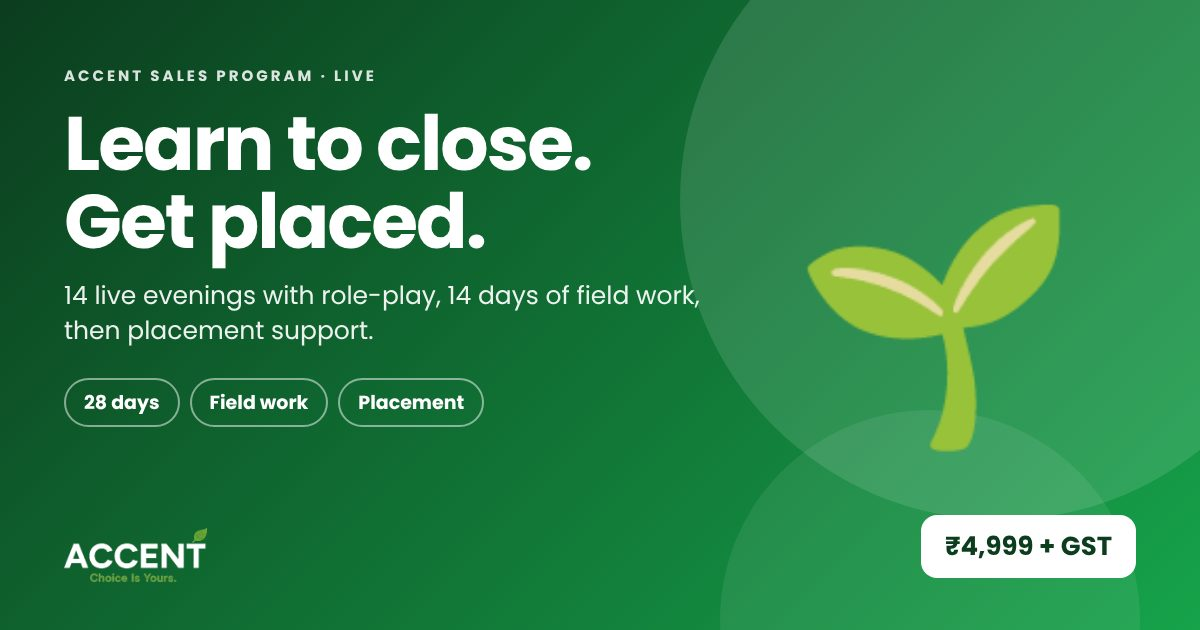
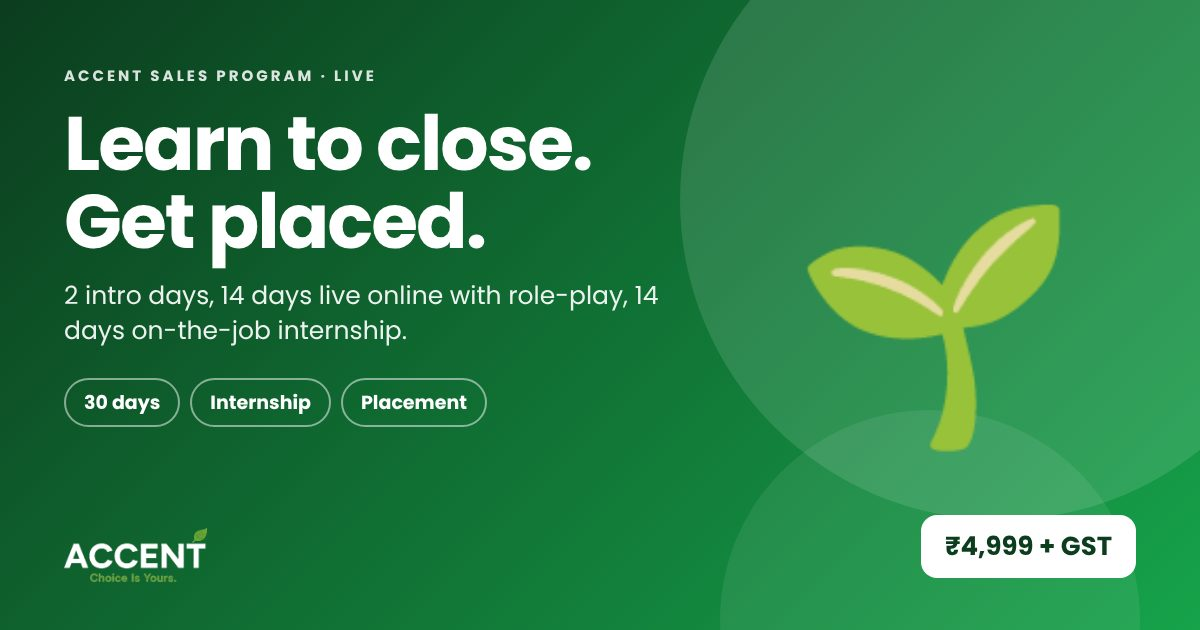
Market case studies, Instagram @accent_ai, 30-day online beta program
Claude-Session: https://claude.ai/code/session_01Ut7WEFV6cq7orZYXQY1Rf6

Changed region(s): [[0.0308, 0.4524, 0.5858, 0.5429], [0.1542, 0.6032, 0.4317, 0.6635], [0.0617, 0.6333, 0.1233, 0.6635]]

diff --git a/site/index.html b/site/index.html
@@ -19,7 +19,7 @@
 {"@type":"Question","name":"How much do Accent short courses cost?","acceptedAnswer":{"@type":"Answer","text":"Each short course is ₹149. The first lessons of every course are free to watch in the Accent app."}},
 {"@type":"Question","name":"Which language are the courses in?","acceptedAnswer":{"@type":"Answer","text":"Sales Basics, AI Tools and Interview English are explained in Malayalam, with English terms. Hindi Express teaches spoken Hindi with English captions."}},
 {"@type":"Question","name":"Do I get a certificate?","acceptedAnswer":{"@type":"Answer","text":"Yes. Pass the final quiz with 7 out of 10 and download your Accent certificate in the app."}},
-{"@type":"Question","name":"Does Accent help with placement?","acceptedAnswer":{"@type":"Answer","text":"Yes. Learners can build a profile and apply to partner companies on the Accent careers portal. The 28-day Sales Program includes field work and placement support."}}]}]}
+{"@type":"Question","name":"Does Accent help with placement?","acceptedAnswer":{"@type":"Answer","text":"Yes. Learners can build a profile and apply to partner companies on the Accent careers portal. The 30-day Sales Program includes a 14-day internship and placement support."}}]}]}
 </script>
 <style>
 :root{--f:#0B3D1E;--g:#16A34A;--l:#79C24A;--m:#E9F5EA;--cream:#F7F5EE;--ink:#0A0F0C;--i7:#2C3A31;--i4:#6B7A70;--line:#DCE5DE;--warn:#C97A2B}
@@ -129,7 +129,7 @@ footer h4{color:#fff;margin:0 0 10px;font-size:14px}footer a{display:block;text-
 <body>
 <header><div class="wrap nav">
  <a href="#top" aria-label="Accent home"><img src="logo.png" alt="Accent — Choice Is Yours." width="100" height="38"></a>
- <nav><a href="#journey">Journey</a><a href="#courses">Courses</a><a href="#jobs">Jobs</a><a href="#internships">Internships</a><a href="#seed">Plant a seed</a><a href="#blog">Blog</a></nav>
+ <nav><a href="#journey">Journey</a><a href="#courses">Courses</a><a href="#jobs">Jobs</a><a href="#internships">Internships</a><a href="#seed">Plant a seed</a><a href="#cases">Case studies</a><a href="#blog">Blog</a></nav>
  <a class="btn b1" data-app="#course-sb">Start free</a>
 </div></header>
 
@@ -188,7 +188,7 @@ footer h4{color:#fff;margin:0 0 10px;font-size:14px}footer a{display:block;text-
   <a class="card reveal" data-app="#course-ie"><img src="banners/interview.jpg" alt="Interview English day 1" loading="lazy"><div class="in"><span class="tag">7-DAY CHALLENGE</span><h3>Interview English</h3><p>Tell me about yourself, strengths, STAR stories, salary questions and a full mock interview.</p><div class="meta"><span class="price">₹149 · 1 free</span><span class="go">Start →</span></div></div></a>
   <a class="card reveal" data-app="#course-hi"><img src="banners/hindi.jpg" alt="Hindi Express greetings" loading="lazy"><div class="in"><span class="tag">19 LESSONS · CAPTIONS</span><h3>Hindi Express</h3><p>The Hindi script, greetings, numbers, directions, grammar basics and a full shopping module.</p><div class="meta"><span class="price">₹149 · 2 free</span><span class="go">Start →</span></div></div></a>
  </div>
- <div class="program reveal"><div><img src="banners/program.jpg" alt="Accent Sales Program" style="border-radius:16px;margin-bottom:16px;max-width:420px;width:100%" loading="lazy"><span class="tag soon">BATCH 01 · DATES TO BE ANNOUNCED</span><h3>Accent Sales Program · 28 days</h3><p>14 evenings of live classroom training with role-play, 14 days of field work with real products, then interview and placement support. ₹4,999 + GST.</p></div><a class="btn b3" href="https://wa.me/919995842727?text=Hi%20Accent%2C%20I%27m%20interested%20in%20the%2028-day%20Sales%20Program.%20Please%20share%20the%20next%20batch%20details." target="_blank" rel="noopener">Reserve a seat</a></div>
+ <div class="program reveal"><div><img src="banners/program.jpg" alt="Accent Sales Program" style="border-radius:16px;margin-bottom:16px;max-width:420px;width:100%" loading="lazy"><span class="tag soon">ONLINE BETA · 5 SEATS PER BATCH</span><h3>Accent Sales Program · 30 days</h3><p>2 intro days, 14 days of live online training with role-play, then 14 days of on-the-job training (a crash internship with real products), with placement support after. ₹4,999 + GST.</p></div><a class="btn b3" href="https://wa.me/919995842727?text=Hi%20Accent%2C%20I%27m%20interested%20in%20the%2030-day%20Sales%20Program.%20Please%20share%20the%20next%20batch%20details." target="_blank" rel="noopener">Reserve a seat</a></div>
 </div></section>
 
 <section id="practise"><div class="wrap">
@@ -241,6 +241,15 @@ footer h4{color:#fff;margin:0 0 10px;font-size:14px}footer a{display:block;text-
  <p style="font-size:13px;color:var(--i4);margin-top:14px" id="jobsrc"></p>
  <div style="display:flex;gap:12px;flex-wrap:wrap;margin-top:18px"><a class="btn b1" data-app="#interview">Practise the interview free</a><a class="btn b2" href="https://27yoc-recrui-7ncdcc53.manus.space/candidate/login">Create your Accent profile</a></div>
 </div></section>
+<section id="cases" style="background:#fff;border-top:1px solid var(--line);border-bottom:1px solid var(--line)"><div class="wrap">
+ <p class="eyebrow">Market case studies</p><h2>Learn from brands that <span class="hl">sold</span> smart.</h2>
+ <p class="lead" style="margin-top:14px">Short stories of real Indian brands, with the sales and marketing lessons you can use. Every story lists its sources.</p>
+ <div class="cards">
+  <a class="card reveal" href="cases/nirma.html"><img src="banners/sales.jpg" alt="" loading="lazy"><div class="in"><span class="tag">PRICING · TRUST</span><h3>Nirma: how a ₹3 detergent beat the giants</h3><p>Price for the people, remove the risk, sell personally.</p><div class="meta"><span class="price">4 min read</span><span class="go">Read →</span></div></div></a>
+  <a class="card reveal" href="cases/amul.html"><img src="banners/ai.jpg" alt="" loading="lazy"><div class="in"><span class="tag">BRANDING · TIMING</span><h3>Amul: the girl who kept a brand talking</h3><p>Topical ads, consistency and a boss who trusted his team.</p><div class="meta"><span class="price">4 min read</span><span class="go">Read →</span></div></div></a>
+  <a class="card reveal" href="cases/kudumbashree.html"><img src="banners/interview.jpg" alt="" loading="lazy"><div class="in"><span class="tag">KERALA · COMMUNITY</span><h3>Kudumbashree: neighbourhoods that built businesses</h3><p>Trust, savings, skills and selling where people gather.</p><div class="meta"><span class="price">4 min read</span><span class="go">Read →</span></div></div></a>
+ </div>
+</div></section>
 <section id="blog"><div class="wrap">
  <p class="eyebrow">Learn free · Blog</p><h2>Guides for your next step.</h2>
  <div class="cards">
@@ -255,7 +264,7 @@ footer h4{color:#fff;margin:0 0 10px;font-size:14px}footer a{display:block;text-
  <details><summary>Which language are the courses in?</summary><p>Sales Basics, AI Tools and Interview English are explained in Malayalam with English terms. Hindi Express teaches spoken Hindi with English captions.</p></details>
  <details><summary>Do I get a certificate?</summary><p>Yes. Pass the final quiz with 7 out of 10 and download your certificate in the app.</p></details>
  <details><summary>How do I pay and join?</summary><p>Open a course in the app, tap "Pay &amp; join" and message us on WhatsApp for the payment details. The Accent team approves your access, usually the same day.</p></details>
- <details><summary>Does Accent help with jobs?</summary><p>Yes. Build a profile on the careers portal and apply to partner companies. The 28-day Sales Program includes field work and placement support.</p></details>
+ <details><summary>Does Accent help with jobs?</summary><p>Yes. Build a profile on the careers portal and apply to partner companies. The 30-day Sales Program includes a 14-day internship and placement support.</p></details>
 </div></section>
 </main>
 
@@ -264,7 +273,7 @@ footer h4{color:#fff;margin:0 0 10px;font-size:14px}footer a{display:block;text-
   <div><img src="logo-light.png" alt="Accent" width="120" height="45"><p style="margin-top:14px">Skill division of 27yOc (Twentyseven Yrold Concept Pvt. Ltd.). Manjeri, Malappuram, Kerala.</p></div>
   <div><h4>Learn</h4><a data-app="#course-sb">Sales Basics</a><a data-app="#course-ai">AI Tools</a><a data-app="#course-ie">Interview English</a><a data-app="#course-hi">Hindi Express</a></div>
   <div><h4>Careers</h4><a href="https://27yoc-recrui-7ncdcc53.manus.space/jobs">Jobs</a><a href="https://27yoc-recrui-7ncdcc53.manus.space/company/register">For companies</a><a href="#internships">Internships</a></div>
-  <div><h4>Contact</h4><a href="https://wa.me/919995842727" target="_blank" rel="noopener">WhatsApp +91 99958 42727</a><a href="mailto:foundersoffice@27yoc.com">foundersoffice@27yoc.com</a><a href="https://instagram.com/accent_tutors" target="_blank" rel="noopener">Instagram @accent_tutors</a></div>
+  <div><h4>Contact</h4><a href="https://wa.me/919995842727" target="_blank" rel="noopener">WhatsApp +91 99958 42727</a><a href="mailto:foundersoffice@27yoc.com">foundersoffice@27yoc.com</a><a href="https://www.instagram.com/accent_ai" target="_blank" rel="noopener">Instagram @accent_ai</a></div>
  </div>
  <div class="copy"><span>© 2026 Accent · Choice Is Yours.</span><span><a style="display:inline" href="https://27yoc-recrui-7ncdcc53.manus.space/privacy-policy">Privacy</a> · <a style="display:inline" href="https://27yoc-recrui-7ncdcc53.manus.space/terms">Terms</a> · <a style="display:inline" href="https://27yoc-recrui-7ncdcc53.manus.space/refund-policy">Refunds</a> · <a style="display:inline" href="https://27yoc-recrui-7ncdcc53.manus.space/grievance">Grievance</a></span></div>
 </div></footer>

diff --git a/site/cases/kudumbashree.html b/site/cases/kudumbashree.html
@@ -1,0 +1,18 @@
+<!doctype html><html lang="en"><head><meta charset="utf-8"><meta name="viewport" content="width=device-width,initial-scale=1">
+<title>Kudumbashree: how Kerala's neighbourhood groups built businesses | Accent</title><meta name="description" content="From weekly neighbourhood meetings to thousands of women-led enterprises: what Kudumbashree teaches about community, trust and selling.">
+<meta property="og:title" content="Kudumbashree: how Kerala's neighbourhood groups built businesses"><meta property="og:image" content="https://bullpranav-code.github.io/instagram-automation/site/banners/interview.jpg">
+<link href="https://fonts.googleapis.com/css2?family=Poppins:wght@400;600;700&display=swap" rel="stylesheet">
+<script type="application/ld+json">{"@context":"https://schema.org","@type":"Article","headline":"Kudumbashree: how Kerala's neighbourhood groups built businesses","datePublished":"2026-11-04","author":{"@type":"Organization","name":"Accent"},"publisher":{"@type":"Organization","name":"Accent"}}</script>
+<style>body{margin:0;font-family:Poppins,system-ui,sans-serif;background:#F7F5EE;color:#2C3A31;line-height:1.75}a{color:#16A34A}
+header{background:#F7F5EE;border-bottom:1px solid #DCE5DE}.w{max-width:760px;margin:0 auto;padding:0 20px}
+.nav{display:flex;justify-content:space-between;align-items:center;height:64px}.nav img{height:34px}
+h1{color:#0B3D1E;font-size:clamp(30px,5vw,44px);line-height:1.1;letter-spacing:-.02em;margin:28px 0 10px}h2{color:#0B3D1E;margin-top:34px;font-size:24px}
+.ban{border-radius:20px;width:100%;margin-top:28px}.meta{color:#6B7A70;font-size:14px}
+.cta{background:#0B3D1E;color:#e8f2ea;border-radius:20px;padding:24px;margin:40px 0}.cta h3{color:#fff;margin:0 0 6px}
+.btn{display:inline-block;background:#79C24A;color:#0B3D1E;font-weight:600;padding:12px 20px;border-radius:12px;text-decoration:none;margin-top:10px}
+blockquote{background:#fff;border-left:4px solid #79C24A;margin:16px 0;padding:14px 18px;border-radius:0 12px 12px 0}
+footer{color:#6B7A70;font-size:13px;padding:30px 0;border-top:1px solid #DCE5DE;margin-top:40px}</style></head><body>
+<header><div class="w nav"><a href="../"><img src="../logo.png" alt="Accent"></a><a href="../#cases">All case studies</a></div></header>
+<main class="w"><img class="ban" src="../banners/interview.jpg" alt=""><h1>Kudumbashree: how Kerala's neighbourhood groups built businesses</h1><p class="meta">Accent market case study · 4 November 2026 · 4 min read</p><p>Kudumbashree began as a neighbourhood group in Alappuzha in 1992, was piloted in Malappuram in 1994, and was formally registered in 1998. It grew from small groups of women meeting every week into a statewide network of about 41.5 lakh members.</p>
+<h2>How it grew</h2><ul><li><b>Neighbourhood first:</b> groups of about 20 women who already knew and trusted each other.</li><li><b>Savings, then skills, then income:</b> a savings habit came first, then training, then small businesses.</li><li><b>Train for real demand:</b> when digitisation created jobs, members were trained in data entry; others run catering, tailoring, farming, canteens and food units.</li><li><b>Sell where people gather:</b> statewide Onam fairs became a major sales channel.</li></ul>
+<h2>Lessons for learners and young entrepreneurs</h2><ol><li><b>Your network is your first market.</b> Trust travels faster through people who know you.</li><li><b>Learn the skill the market is asking for.</b></li><li><b>Keep reinventing.</b> New products and services kept the groups growing.</li></ol><h2>Sources</h2><ul><li><a href="https://www.thenewsminute.com/kerala/kudumbashree-story-how-kerala-womens-grassroots-scheme-grew-multi-crore-project-51420" target="_blank" rel="noopener">The News Minute: The Kudumbashree story</a></li></ul><div class="cta"><h3>Build the skills the market wants</h3><p style="margin:0">Start with a free lesson, then practise with Ila and get interview-ready.</p><a class="btn" href="../../ila/app.html?v=13&src=case#course-ie">Try Interview English free</a></div></main><footer class="w">© 2026 Accent · Choice Is Yours. · <a href="../">Accent home</a> · WhatsApp +91 99958 42727</footer></body></html>

diff --git a/site/cases/nirma.html b/site/cases/nirma.html
@@ -1,0 +1,19 @@
+<!doctype html><html lang="en"><head><meta charset="utf-8"><meta name="viewport" content="width=device-width,initial-scale=1">
+<title>Nirma: how a ₹3 detergent beat the giants | Accent</title><meta name="description" content="How Karsanbhai Patel used price, trust and simple selling to build Nirma, and what freshers in sales can learn.">
+<meta property="og:title" content="Nirma: how a ₹3 detergent beat the giants"><meta property="og:image" content="https://bullpranav-code.github.io/instagram-automation/site/banners/sales.jpg">
+<link href="https://fonts.googleapis.com/css2?family=Poppins:wght@400;600;700&display=swap" rel="stylesheet">
+<script type="application/ld+json">{"@context":"https://schema.org","@type":"Article","headline":"Nirma: how a ₹3 detergent beat the giants","datePublished":"2026-11-04","author":{"@type":"Organization","name":"Accent"},"publisher":{"@type":"Organization","name":"Accent"}}</script>
+<style>body{margin:0;font-family:Poppins,system-ui,sans-serif;background:#F7F5EE;color:#2C3A31;line-height:1.75}a{color:#16A34A}
+header{background:#F7F5EE;border-bottom:1px solid #DCE5DE}.w{max-width:760px;margin:0 auto;padding:0 20px}
+.nav{display:flex;justify-content:space-between;align-items:center;height:64px}.nav img{height:34px}
+h1{color:#0B3D1E;font-size:clamp(30px,5vw,44px);line-height:1.1;letter-spacing:-.02em;margin:28px 0 10px}h2{color:#0B3D1E;margin-top:34px;font-size:24px}
+.ban{border-radius:20px;width:100%;margin-top:28px}.meta{color:#6B7A70;font-size:14px}
+.cta{background:#0B3D1E;color:#e8f2ea;border-radius:20px;padding:24px;margin:40px 0}.cta h3{color:#fff;margin:0 0 6px}
+.btn{display:inline-block;background:#79C24A;color:#0B3D1E;font-weight:600;padding:12px 20px;border-radius:12px;text-decoration:none;margin-top:10px}
+blockquote{background:#fff;border-left:4px solid #79C24A;margin:16px 0;padding:14px 18px;border-radius:0 12px 12px 0}
+footer{color:#6B7A70;font-size:13px;padding:30px 0;border-top:1px solid #DCE5DE;margin-top:40px}</style></head><body>
+<header><div class="w nav"><a href="../"><img src="../logo.png" alt="Accent"></a><a href="../#cases">All case studies</a></div></header>
+<main class="w"><img class="ban" src="../banners/sales.jpg" alt=""><h1>Nirma: how a ₹3 detergent beat the giants</h1><p class="meta">Accent market case study · 4 November 2026 · 4 min read</p><p>In 1969, Karsanbhai Patel, a 24-year-old government lab employee in Gujarat, started making a phosphate-free detergent powder in his backyard. He named it Nirma, after his daughter Nirupama, and sold it while cycling to work.</p>
+<h2>What he did</h2><ul><li><b>Priced for the people:</b> Nirma sold at about ₹3 per kg, roughly one-third of the cheapest popular detergent of the time.</li><li><b>Removed the risk:</b> he offered a money-back guarantee, so trying it cost the customer nothing.</li><li><b>Spoke the customer's language:</b> simple, household-friendly advertising and a jingle people remembered.</li></ul>
+<h2>The result</h2><p>Nirma created a new low-cost detergent segment in India. In the 1980s it overtook Surf in market share, and larger companies responded with cheaper products of their own.</p>
+<h2>Lessons for sales learners</h2><ol><li><b>Know your customer's budget.</b> Nirma won by fitting what most families could pay.</li><li><b>Reduce the fear of saying yes.</b> A guarantee turns "maybe" into "let me try".</li><li><b>Start small, sell personally.</b> Patel sold himself before he had a sales team.</li></ol><h2>Sources</h2><ul><li><a href="https://www.business-standard.com/amp/article/economy-policy/inventor-of-low-cost-detergents-110080400121_1.html" target="_blank" rel="noopener">Business Standard: Inventor of low-cost detergents</a></li></ul><div class="cta"><h3>Learn the customer-first way</h3><p style="margin:0">Sales Basics teaches benefits, objections and closing in Malayalam. 2 lessons free.</p><a class="btn" href="../../ila/app.html?v=13&src=case#course-sb">Watch free lessons</a></div></main><footer class="w">© 2026 Accent · Choice Is Yours. · <a href="../">Accent home</a> · WhatsApp +91 99958 42727</footer></body></html>

diff --git a/site/cases/amul.html b/site/cases/amul.html
@@ -1,0 +1,18 @@
+<!doctype html><html lang="en"><head><meta charset="utf-8"><meta name="viewport" content="width=device-width,initial-scale=1">
+<title>Amul: the girl who kept a brand talking for 50 years | Accent</title><meta name="description" content="How one small idea and a bold boss made Amul butter part of everyday conversation: lessons in consistency and timing.">
+<meta property="og:title" content="Amul: the girl who kept a brand talking for 50 years"><meta property="og:image" content="https://bullpranav-code.github.io/instagram-automation/site/banners/ai.jpg">
+<link href="https://fonts.googleapis.com/css2?family=Poppins:wght@400;600;700&display=swap" rel="stylesheet">
+<script type="application/ld+json">{"@context":"https://schema.org","@type":"Article","headline":"Amul: the girl who kept a brand talking for 50 years","datePublished":"2026-11-04","author":{"@type":"Organization","name":"Accent"},"publisher":{"@type":"Organization","name":"Accent"}}</script>
+<style>body{margin:0;font-family:Poppins,system-ui,sans-serif;background:#F7F5EE;color:#2C3A31;line-height:1.75}a{color:#16A34A}
+header{background:#F7F5EE;border-bottom:1px solid #DCE5DE}.w{max-width:760px;margin:0 auto;padding:0 20px}
+.nav{display:flex;justify-content:space-between;align-items:center;height:64px}.nav img{height:34px}
+h1{color:#0B3D1E;font-size:clamp(30px,5vw,44px);line-height:1.1;letter-spacing:-.02em;margin:28px 0 10px}h2{color:#0B3D1E;margin-top:34px;font-size:24px}
+.ban{border-radius:20px;width:100%;margin-top:28px}.meta{color:#6B7A70;font-size:14px}
+.cta{background:#0B3D1E;color:#e8f2ea;border-radius:20px;padding:24px;margin:40px 0}.cta h3{color:#fff;margin:0 0 6px}
+.btn{display:inline-block;background:#79C24A;color:#0B3D1E;font-weight:600;padding:12px 20px;border-radius:12px;text-decoration:none;margin-top:10px}
+blockquote{background:#fff;border-left:4px solid #79C24A;margin:16px 0;padding:14px 18px;border-radius:0 12px 12px 0}
+footer{color:#6B7A70;font-size:13px;padding:30px 0;border-top:1px solid #DCE5DE;margin-top:40px}</style></head><body>
+<header><div class="w nav"><a href="../"><img src="../logo.png" alt="Accent"></a><a href="../#cases">All case studies</a></div></header>
+<main class="w"><img class="ban" src="../banners/ai.jpg" alt=""><h1>Amul: the girl who kept a brand talking for 50 years</h1><p class="meta">Accent market case study · 4 November 2026 · 4 min read</p><p>In 1966, Amul butter had been on the market for about ten years. Ad-man Sylvester Dacunha and art director Eustace Fernandes created a small girl in a polka-dot dress, and the line "Utterly Butterly Delicious" was born. Dr V. Kurien, who led Amul, thought the idea was "utterly mad" but let the team go ahead.</p>
+<h2>What made it work</h2><ul><li><b>Topical ads:</b> the hoardings reacted to the news of the day, so people looked forward to the next one.</li><li><b>Freedom to move fast:</b> Kurien let the team publish without waiting for his approval, and stood by them when some ads drew complaints.</li><li><b>Consistency:</b> the same character, style and humour for about five decades, across more than 4,000 hoardings.</li></ul>
+<h2>Lessons for marketers and sellers</h2><ol><li><b>Be timely.</b> Connect your message to what people are already talking about.</li><li><b>Be consistent.</b> One recognisable style builds memory and trust.</li><li><b>Trust your team.</b> Speed needs leaders who give permission and take responsibility.</li></ol><h2>Sources</h2><ul><li><a href="https://www.business-standard.com/article/management/the-utterly-butterly-story-112091200663_1.html" target="_blank" rel="noopener">Business Standard: The "Utterly butterly" story</a></li></ul><div class="cta"><h3>Create timely content with AI</h3><p style="margin:0">The AI Tools course shows how to plan posts, captions and replies for a small business. Lesson 1 free.</p><a class="btn" href="../../ila/app.html?v=13&src=case#course-ai">Start Lesson 1</a></div></main><footer class="w">© 2026 Accent · Choice Is Yours. · <a href="../">Accent home</a> · WhatsApp +91 99958 42727</footer></body></html>

diff --git a/ila/app.html b/ila/app.html
@@ -611,7 +611,7 @@ const COURSE_IE={id:'interview-english',tk:'ie',short:'Interview',title:'7-Day I
   check:[{q:'"What is your expected salary?" Best answer?',o:['"Any salary is okay."','A researched range, open to discussion','"As much as possible."'],a:1},{q:'If you miss a word on a call, say…',o:['"What?"','"Could you please repeat that?"','Nothing'],a:1}]},
  {n:6,t:'Finish the interview strong',task:'Write 2 questions for the interviewer and a short thank-you message. Send both as a voice note.',practice:'interview',
   check:[{q:'"Do you have any questions for us?" Wrong answer?',o:['"No, nothing."','"What does a typical day look like?"','"What is the next step?"'],a:0},{q:'The strong finish is…',o:['Ask → Thank → Confirm → Follow up','Salary → Leave → Bye','Silence'],a:0}]},
- {n:7,t:'Your full mock interview',task:'Record your full 5-question mock interview, get it scored, then plant a seed and tag @accent_tutors.',practice:'interview',
+ {n:7,t:'Your full mock interview',task:'Record your full 5-question mock interview, get it scored, then plant a seed and tag @accent_ai.',practice:'interview',
   check:[{q:'Your interview-day plan is…',o:['Before → Start → During → End','Late → Fast → Leave','Read from paper'],a:0},{q:'If you make a mistake while answering…',o:['Stop and give up','Correct it and continue','Laugh it off'],a:1}]}
  ],
  final:[
@@ -660,7 +660,7 @@ function renderCourse(){
     h+='<div class="card" style="margin-top:14px"><b style="color:var(--f)">🎓 Final quiz & certificate</b>'+(CS.cert?'<p class="sub" style="margin:6px 0 0">Passed '+esc(CS.final)+' · Certificate '+esc(CS.cert)+'</p><button class="btn green" id="c-cert">View certificate</button>':
       '<p class="sub" style="margin:6px 0 0">10 questions · pass with 7/10 · earn your certificate and 🍃 200 Leaf Points.'+(CS.final?' Last try: '+esc(CS.final)+'.':'')+'</p><button class="btn" id="c-final" '+(allDone?'':'disabled')+'>'+(allDone?'Start final quiz':'Finish all '+NL+' lessons first ('+dc+'/'+NL+')')+'</button>')+'</div>';
     {const g=CS.green||'';
-    h+='<div class="card"><b style="color:var(--f)">'+(COURSE.deposit?'🌱 Green Task · get your ₹99 back':'🌱 Green Task · plant a seed (+50 🍃)')+'</b><p class="sub" style="margin:6px 0 0">Plant a seed or sapling, post it on Instagram with the Accent Green Task frame tagging @accent_tutors #ChoiceIsYours, then upload the photo here within 30 days.</p>'+
+    h+='<div class="card"><b style="color:var(--f)">'+(COURSE.deposit?'🌱 Green Task · get your ₹99 back':'🌱 Green Task · plant a seed (+50 🍃)')+'</b><p class="sub" style="margin:6px 0 0">Plant a seed or sapling, post it on Instagram with the Accent Green Task frame tagging @accent_ai #ChoiceIsYours, then upload the photo here within 30 days.</p>'+
       (g?'<p style="font-weight:600;color:var(--g)">Status: '+esc(g)+'</p>':'')+(/Approved|Refunded/.test(g)?'':'<input id="c-insta" placeholder="Instagram post link (optional)" style="margin-top:8px"><input type="file" id="c-photo" accept="image/*" hidden><button class="btn alt" id="c-gt">'+(g?'Upload a new photo':'Upload planting photo')+'</button>')+'</div>';}
     h+='<div id="c-groups"></div>';
     if(COURSE.practical)h+='<div class="card"><b style="color:var(--f)">🤝 Live practical session</b><p class="sub" style="margin:6px 0 0">Role-play lab, offline workshop and a real field task with Accent trainers. Book on WhatsApp.</p><a class="btn alt" target="_blank" href="https://wa.me/'+WA+'?text='+encodeURIComponent('Hi Accent, I finished Sales Basics lessons and want to book the practical session. Name: '+S.name)+'">Book practical on WhatsApp</a></div>';
